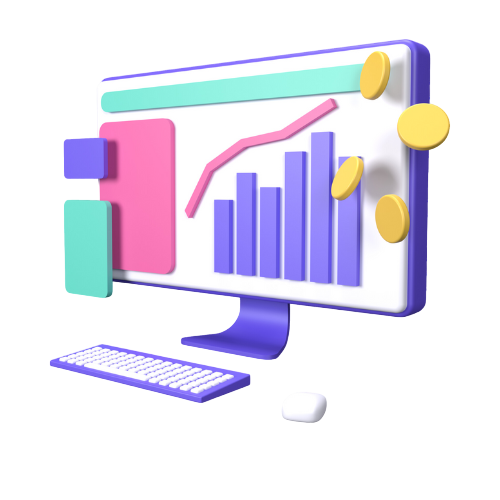
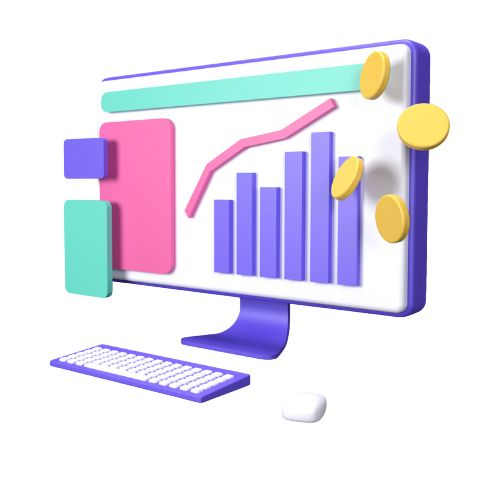
ubah

diff --git a/Engine/hubungikami.html b/Engine/hubungikami.html
@@ -45,7 +45,7 @@
     </nav>
 
     <div class="container-part">
-        <img class="poster1" src="/assets/img/Umkm.png" alt="...">
+        <img class="poster1" src="/assets/img/Umkm.jpg" alt="...">
         <h1 class="elemen-heading">KEMBANGKAN <br> BISNISMU BERSAMA <br> <span class="judul">PosterUMKM</span></h1>
         <p class="elementor">Sudah siap miliki poster produk keren dan menarik dengan <br> mudah? Hubungi Kami Sekarang!
         </p>
